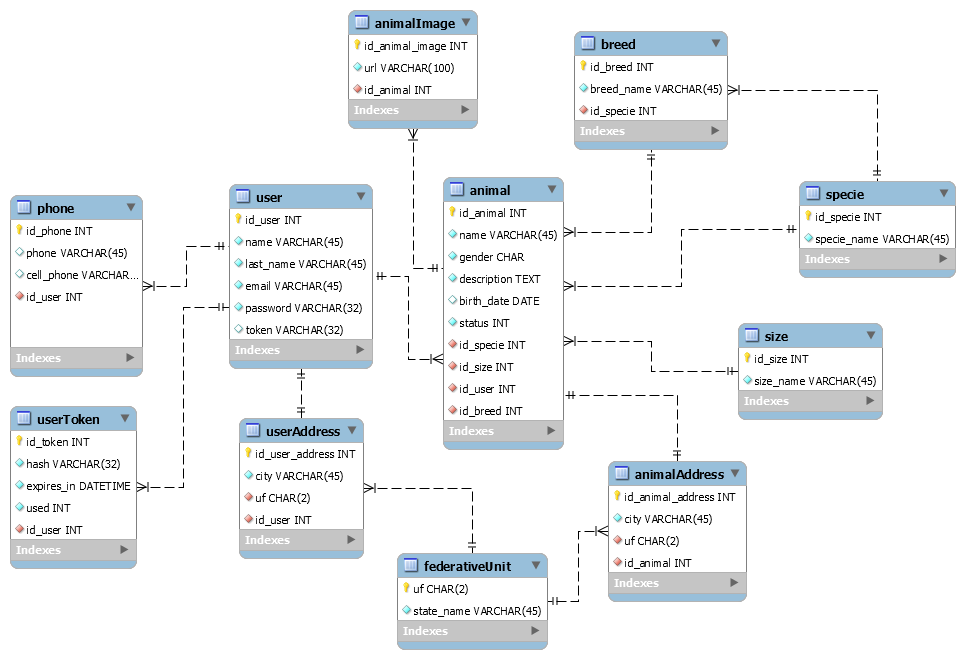
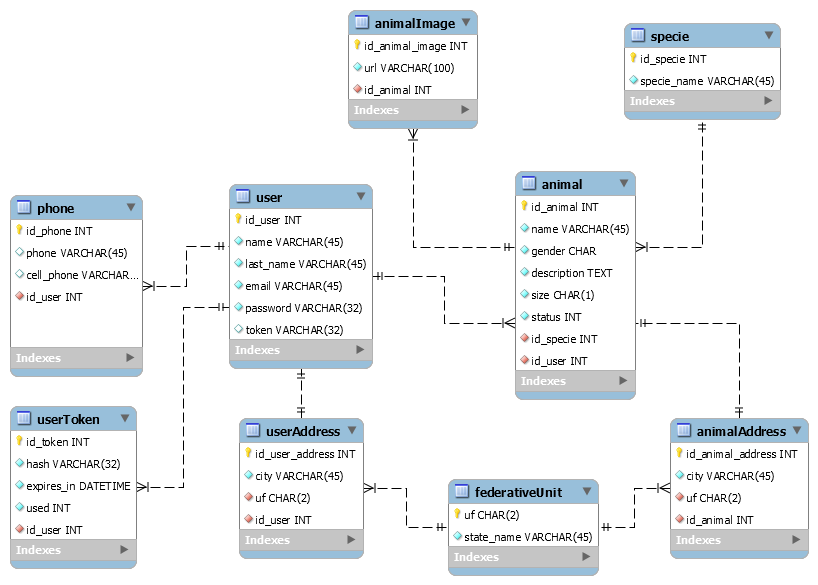
Adicionar animal

diff --git a/views/addAnimal.php b/views/addAnimal.php
@@ -1,0 +1,99 @@
+<div class="container">
+    <h3>Cadastrar Animal</h3>
+    <?php if (!empty($msg)): ?>
+        <div class="alert"><?php echo $msg ?></div>
+    <?php endif; ?>
+    <form method="POST">
+        <div class="form-group">
+            <label for="name">Nome</label>
+            <input type="text" id="name" name="name" class="form-control" required>
+        </div>
+        <div class="form-group">
+            <label for="description">Descrição</label>
+            <textarea id="description" name="description" cols="30" rows="10" class="form-control" required></textarea>
+        </div>
+
+        <!-- Espécie -->
+        <div class="form-group">
+            <div class="row">
+                <legend class="col-form-label col-sm-2 pt-0">Espécie</legend>
+                <div class="col-sm-10">
+                    <?php foreach ($species as $specie): ?>
+                        <div class="col-sm-10">
+                            <input class="form-check-input" type="radio" name="id_specie" value="<?php echo $specie['id_specie'] ?>" checked>
+                            <label class="form-check-label" for="specie1">
+                                <?php echo $specie['specie_name'] ?>
+                            </label>
+                        </div>
+                    <?php endforeach; ?>
+                </div>
+            </div>
+        </div>
+
+        <!-- Tamanho -->
+        <div class="form-group">
+            <div class="row">
+                <legend class="col-form-label col-sm-2 pt-0">Tamanho</legend>
+                <div class="col-sm-10">
+                    <div class="form-check">
+                        <input class="form-check-input" type="radio" name="size" id="pequeno" value="P" checked>
+                        <label class="form-check-label" for="pequeno">
+                            Pequeno
+                        </label>
+                    </div>
+                    <div class="form-check">
+                        <input class="form-check-input" type="radio" name="size" id="medio" value="M">
+                        <label class="form-check-label" for="medio">
+                            Médio
+                        </label>
+                    </div>
+                    <div class="form-check">
+                        <input class="form-check-input" type="radio" name="size" id="grande" value="G">
+                        <label class="form-check-label" for="grande">
+                            Grande
+                        </label>
+                    </div>
+                </div>
+            </div>
+        </div>
+
+        <!-- Sexo -->
+        <div class="form-group">
+            <div class="row">
+                <legend class="col-form-label col-sm-2 pt-0">Sexo</legend>
+                <div class="col-sm-10">
+                    <div class="form-check">
+                        <input class="form-check-input" type="radio" name="gender" id="macho" value="M" checked>
+                        <label class="form-check-label" for="macho">
+                            Macho
+                        </label>
+                    </div>
+                    <div class="form-check">
+                        <input class="form-check-input" type="radio" name="gender" id="femea" value="F">
+                        <label class="form-check-label" for="femea">
+                            Fêmea
+                        </label>
+                    </div>
+                </div>
+            </div>
+        </div>
+        
+        <!-- Estado/Cidade -->
+        <div class="form-row">
+            <div class="form-group col-md-4">
+                <label for="uf">Estado</label>
+                <select id="uf" name="uf" class="form-control">
+                    <?php foreach ($states as $state): ?>
+                    <option value="<?php echo $state['uf'] ?>"><?php echo $state['state_name'] ?></option>
+                    <?php endforeach; ?>
+                </select>
+            </div>
+            <div class="form-group col-md-8">
+                <label for="city">Cidade</label>
+                <input type="text" id="city" name="city" class="form-control" required>
+            </div>
+        </div>
+
+        <input type="submit" value="Cadastrar">
+    </form>
+</div>

diff --git a/controllers/animalController.php b/controllers/animalController.php
@@ -1,0 +1,71 @@
+<?php
+class animalController extends Controller
+{
+    private $user;
+
+    public function __construct()
+    {
+        parent::__construct();
+
+        $this->user = new User();
+        if ($this->user->checkLogin()) {
+            $this->user->setLogin(true);
+        } else {
+            header('Location: '.BASE_URL.'login');
+            exit;
+        }
+    }
+
+    public function add()
+    {
+        $data = array(
+            'menu' => $this->user->getLogin(),
+            'species' => array(),
+            'states' => array(),
+            'msg' => ''
+        );
+
+        $animal = new Animal();
+        $specie = new Specie();
+        $animalAddress = new AnimalAddress();
+        $federativeUnit = new FederativeUnit();
+
+        $data['species'] = $specie->getSpecies();
+        $data['states'] = $federativeUnit->getFederativeUnits();
+
+        if (!empty($_POST['name'])) {
+            $name           = addslashes($_POST['name']);
+            $description    = addslashes($_POST['description']);
+            $id_specie      = addslashes($_POST['id_specie']);
+            $size           = addslashes($_POST['size']);
+            $gender         = addslashes($_POST['gender']);
+            $uf             = addslashes($_POST['uf']);
+            $city           = addslashes($_POST['city']);
+
+            if (
+                !empty($_POST['name']) 
+                && !empty($_POST['description']) 
+                && !empty($_POST['id_specie']) 
+                && !empty($_POST['size']) 
+                && !empty($_POST['gender']) 
+                && !empty($_POST['uf'])
+                && !empty($_POST['city']) 
+                ) {
+                
+                $id_animal = $animal->registerAnimal($id_specie, $_SESSION['id_user'], $name, $gender, $description, $size);
+                $animalAddress->registerAddress($id_animal, $uf, $city);
+                
+                $data['msg'] = 'Animal adicionado com sucesso';
+            } else {
+                $data['msg'] = 'Preencha todos os campos';
+            }
+        }
+
+        $this->loadTemplate('addAnimal', $data);
+    }
+
+    public function adoption()
+    {
+
+    }
+}

diff --git a/controllers/loginController.php b/controllers/loginController.php
@@ -121,12 +121,12 @@ class loginController extends Controller
 
             // Verifica se o email existe.
             if ($user->emailExists($email)) {
-                // Cria um token e enviando um email para a recuperação da senha.
+                // Cria um token e envia um email para a recuperação da senha.
                 $id_user = $user->getIdByEmail($email);
                 $token = $userToken->createUserToken($id_user);
-                $corpo = $user->sendRecoveryEmail($email, $token);
+                $link_recuperacao = $user->sendRecoveryEmail($email, $token);
 
-                $data['msg']['success'] = 'Email de recuperação. '.$corpo;
+                $data['msg']['success'] = $link_recuperacao;
             } else {
                 $data['msg']['warning'] = 'Este email não existe!';
             }
@@ -135,7 +135,7 @@ class loginController extends Controller
         $this->loadTemplate('forgotPassword', $data);
     }
 
-    public function recoverPassword($email, $token)
+    public function recoverPassword()
     {   
         $data = array(
             'menu' => $this->user->getLogin(),
@@ -145,7 +145,7 @@ class loginController extends Controller
             )
         );
 
-        if (empty($email) || empty($token)) {
+        if (empty($_GET['email']) || empty($_GET['token'])) {
             header('Location: '.BASE_URL);
             exit;
         }
@@ -154,8 +154,8 @@ class loginController extends Controller
         $userToken = new UserToken();
 
         if (!empty($_POST['password'])) {
-            $email      = addslashes($email);
-            $token      = addslashes($token);
+            $email      = addslashes($_GET['email']);
+            $token      = addslashes($_GET['token']);
             $password   = md5($_POST['password']);
 
             if ($userToken->verifyUserToken($token)) {

diff --git a/controllers/userController.php b/controllers/userController.php
@@ -18,7 +18,26 @@ class userController extends Controller
 
     public function index()
     {
+        $data = array(
+            'menu' => $this->user->getLogin(),
+            'user' => array(),
+            'states' => array()
+        );
 
+        $user = new User();
+        $phone = new Phone();
+        $userAddress = new UserAddress();
+        $federativeUnit = new FederativeUnit();
+
+        $u = $user->getUserById($_SESSION['id_user']);
+        $p = $phone->getPhoneById($_SESSION['id_user']);
+        $ua = $userAddress->getUserAddressById($_SESSION['id_user']);
+        $fu = $federativeUnit->getFUByUf($ua['uf']);
+
+        $data['user'] = array_merge($u, $p, $ua, $fu);
+        $data['states'] = $federativeUnit->getFederativeUnits();
+
+        $this->loadTemplate('user', $data);
     }
 
     public function edit()
@@ -64,7 +83,7 @@ class userController extends Controller
             } else {
                 $data['msg'] = 'Preencha todos os campos!';
             }
-        }
+        }   
 
         $u = $user->getUserById($_SESSION['id_user']);
         $p = $phone->getPhoneById($_SESSION['id_user']);
@@ -74,6 +93,6 @@ class userController extends Controller
         $data['user'] = array_merge($u, $p, $ua, $fu);
         $data['states'] = $federativeUnit->getFederativeUnits();
 
-        $this->loadTemplate('edit', $data);
+        $this->loadTemplate('editUser', $data);
     }
 }

diff --git a/views/user.php b/views/user.php
@@ -1,0 +1,23 @@
+<pre>
+    <?php print_r($user); ?>
+</pre>
+<div class="container">
+    <div class="user-data">
+        <h2><?php echo $user['name'].' '.$user['last_name'] ?></h2>
+        <h4>Email</h4>
+        <p><?php echo $user['email'] ?></p>
+        <h4>WhatsApp ou Telefone</h4>
+        <p><?php echo $user['phone'].' | '.$user['cell_phone']  ?></p>
+        <h4>Endereço</h4>
+        <p><?php echo $user['city'].' - '.$user['uf'] ?></p>
+    </div>
+    <hr>
+    <div class="buttons">
+        <a href="<?php echo BASE_URL.'animal/add' ?>" class="btn btn-warning">Cadastrar novo animal</a>
+        <a href="<?php echo BASE_URL.'animal/adoption' ?>" class="btn btn-warning">Marcar animais adotados</a>
+    </div>
+    <hr>
+    <div class="animal-list">
+        <h2>Animais Cadastrados</h2>
+    </div>
+</div>

diff --git a/models/Animal.php b/models/Animal.php
@@ -1,0 +1,18 @@
+<?php
+class Animal extends Model
+{
+    public function registerAnimal($id_specie, $id_user, $name, $gender, $description, $size)
+    {
+        $sql = 'INSERT INTO animal (id_specie, id_user, name, gender, description, size) VALUES (:id_specie, :id_user, :name, :gender, :description, :size)';
+        $sql = $this->db->prepare($sql);
+        $sql->bindValue(':id_specie', $id_specie);
+        $sql->bindValue(':id_user', $id_user);
+        $sql->bindValue(':name', $name);
+        $sql->bindValue(':gender', $gender);
+        $sql->bindValue(':description', $description);
+        $sql->bindValue(':size', $size);
+        $sql->execute();
+
+        return $this->db->lastInsertId();   
+    }
+}

diff --git a/models/User.php b/models/User.php
@@ -129,13 +129,13 @@ class User extends Model
     // Envia um email de recuparação da senha
     public function sendRecoveryEmail($email, $token)
     {
-        $link_recuperacao = BASE_URL.'login/recoverPassword/'.$email.'/'.$token;
+        $link_recuperacao = BASE_URL.'login/recoverPassword?email='.$email.'&token='.$token;
         $assunto = 'Recuperar Senha';
         $corpo = 'Para recuperar a senha clique no link abaixo.<br>'.$link_recuperacao;
         $cabecalho = 'From: suporte@tcthaylan.com.br'."\r\n".
         'X-Mailer: PHP/'.phpversion();
 
-        return $corpo;
+        return $link_recuperacao;
         //mail($email, $assunto, $corpo, $cabecalho);
     }
 

diff --git a/models/AnimalAddress.php b/models/AnimalAddress.php
@@ -1,0 +1,14 @@
+<?php
+class AnimalAddress extends Model
+{
+    // Cadastra o endereço de um animal.
+    public function registerAddress($id_animal, $uf, $city)
+    {
+        $sql = 'INSERT INTO animalAddress (id_animal, uf, city) VALUES (:id_animal, :uf, :city)';
+        $sql = $this->db->prepare($sql);
+        $sql->bindValue(':id_animal', $id_animal);
+        $sql->bindValue(':uf', $uf);
+        $sql->bindValue(':city', $city);
+        $sql->execute();
+    }
+}

diff --git a/views/template.php b/views/template.php
@@ -18,7 +18,7 @@
 					<ul class="navbar-nav ml-auto">
 						<?php if ($viewData['menu'] == true): ?>
 							<li class="nav-item">
-								<a class="nav-link" href="#">Meus animais</a>
+								<a class="nav-link" href="<?php echo BASE_URL.'user' ?>">Meus animais</a>
 							</li>
 							<li class="nav-item" >
 								<a class="nav-link" href="<?php echo BASE_URL.'user/edit' ?>" >Editar Perfil</a>

diff --git a/views/forgotPassword.php b/views/forgotPassword.php
@@ -1,7 +1,8 @@
 <h3>Esqueci a minha senha</h3>
 <?php if (!empty($msg['success'])): ?>
     <div class="alert alert-success">
-        <?php echo $msg['success'] ?>
+        <p>Clique no link abaixo para trocar a senha</p> 
+        <a href="<?php echo $msg['success'] ?>"><?php echo $msg['success'] ?></a>
     </div>
 <?php elseif (!empty($msg['warning'])): ?>
     <div class="alert alert-warning">

diff --git a/models/Specie.php b/models/Specie.php
@@ -1,0 +1,16 @@
+<?php
+class Specie extends Model
+{
+    public function getSpecies()
+    {
+        $sql = 'SELECT * FROM specie';
+        $sql = $this->db->query($sql);
+        
+        $array = array();
+        if ($sql->rowCount() > 0) {
+            $array = $sql->fetchAll(PDO::FETCH_ASSOC);
+            return $array;
+        }
+        return $array;
+    }
+}
